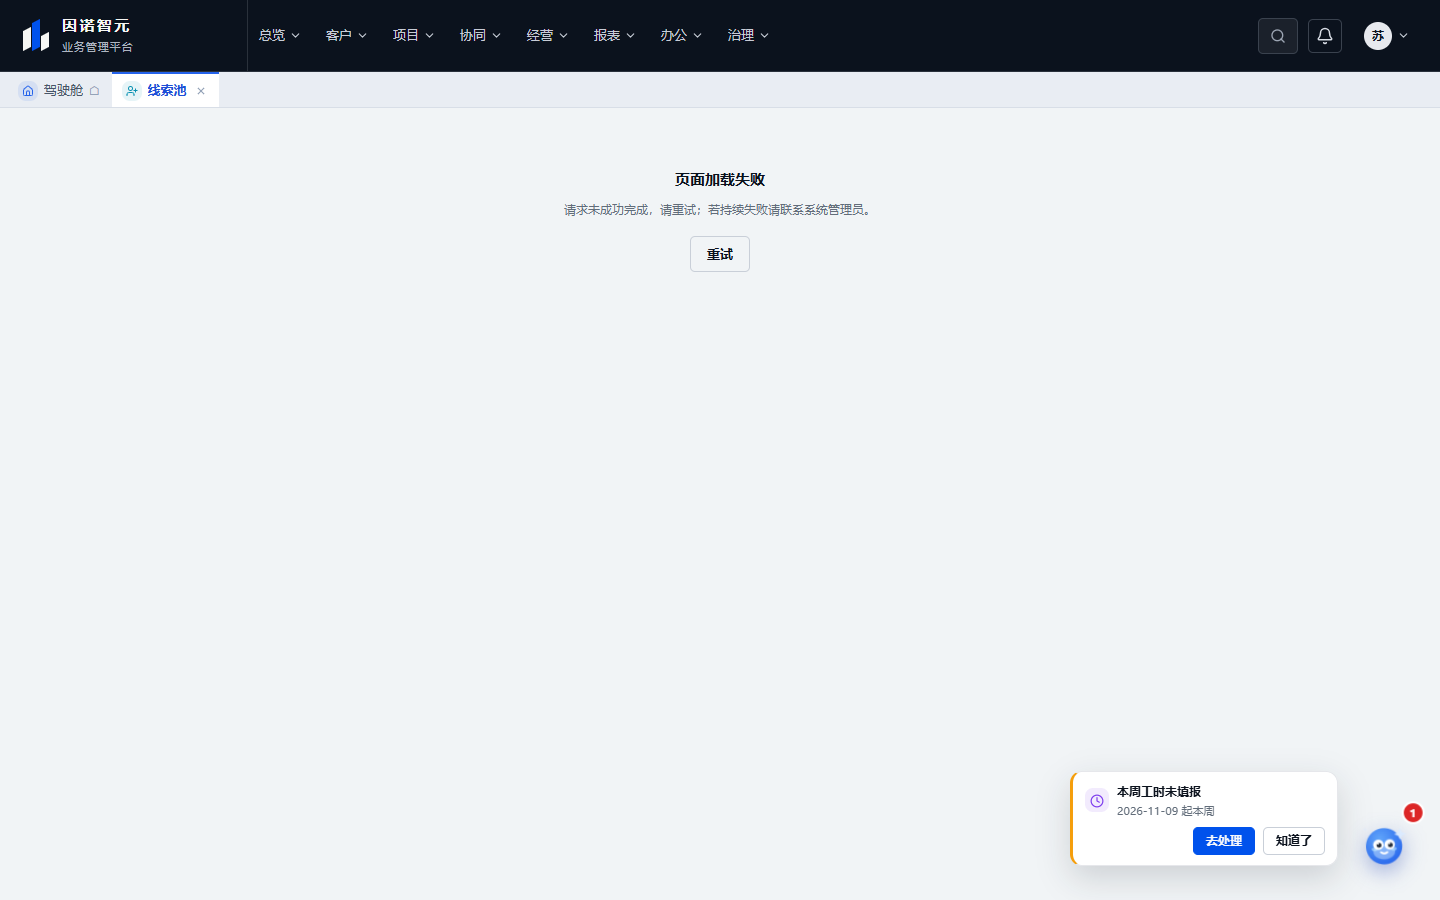
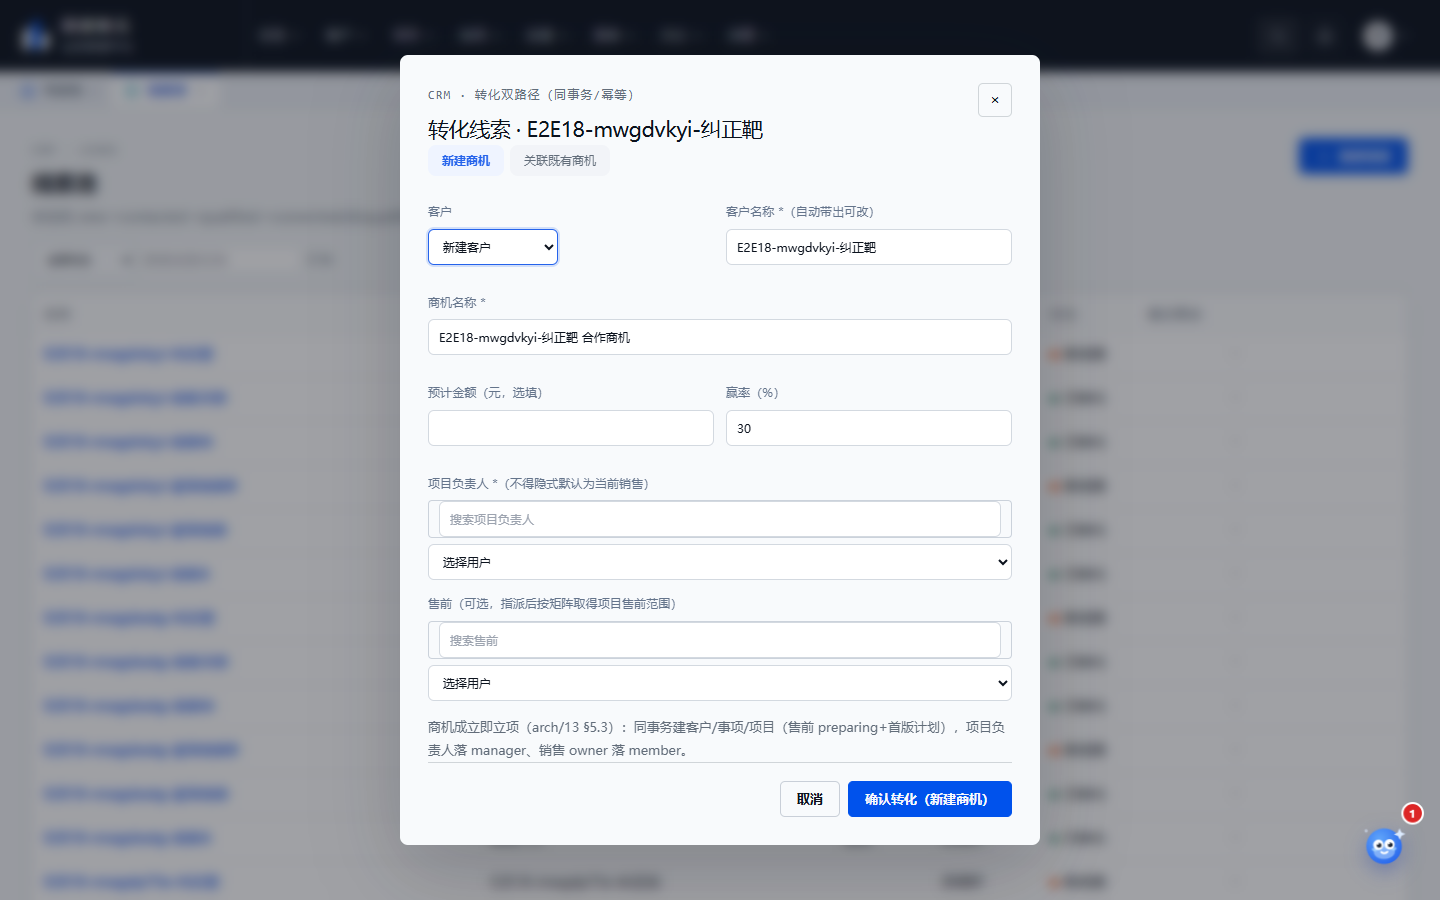
[测试] 专项手册D-MAN-3复修：重拍替换03-03转化弹窗与04-14档案页签为正常功能页——66张全量排查(canvas墨迹扫描+目视27张)同类失败页仅这两张,异常章6张错误页按规则保留——manifest采集时间已更新——D-MAN-1链接校验复跑全绿(嵌入66≥55,manifest67项双向一一对应)——新登记平台缺陷D-MAN-4(外测http非安全上下文crypto.randomUUID不可用致转化弹窗崩溃,回前端,采集侧以Chrome旗标规避不改平台代码)——STATUS转待验收

diff --git a/docs/STATUS.md b/docs/STATUS.md
@@ -5,7 +5,7 @@
 
 ## 当前迭代
 
-**专项 · 系统功能手册（超级详细版）**（**进行中（二次打回）**——图片嵌入与页签勘误已修；架构抽图发现 2 张正式插图为“页面加载失败”，需替换并全量排查同类失败页）
+**专项 · 系统功能手册（超级详细版）**（**待验收**——测试会话 2026-11-14 D-MAN-3 复修完成：03-03 转化弹窗/04-14 档案页签两张失败页已重拍为正常功能页；66 张全量排查（墨迹扫描+目视复核 27 张）仅这两张失败页；新发现平台缺陷 D-MAN-4 已登记回前端）
 
 **迭代 18 · 会议纪要业务架构对齐（一期）**（**已收口** 2026-11-14——dev+外测 prod 六组双 6/6，根 332 全绿，18-01~18-05 全部通过）
 
@@ -432,6 +432,8 @@
 | 2026-10-29 | 前端 | 迭代 6 工单 04 登记偏差（4 项）：① 财务登记收款无项目参照端点（无收款记录的新项目 UI 不可登记）② admin userList 无 roles、停用行无恢复启用 UI ③ 申请单类型配置 member/partner 不可读（前端本地静态）④ 参照端点最小字段 | **裁定**：① 新增 `receipts.projectOptions`（finance/partner 参照级 {id,code,name}）——04b 后端 + 04c 前端替换下拉源；② userList 增 roles（04b）+ 停用行加启用按钮（04c，setEnabled(false) 已验证有效）；③ 新增 `genericRequest.types` 公开读端点（04b）+ 前端移除本地静态（04c）；④ 接受现状（参照端点最小字段即契约语义），关闭 | **已关闭**（04b 后端 + 04c 前端收口完成并走查取证） |
 
 ## 交接记录（新条目置顶，格式：日期｜会话｜工单｜内容）
+
+- 2026-11-14｜测试｜专项·系统功能手册D-MAN-3复修｜**D-MAN-3 复修完成，专项重新转「待验收」。** ① **替换文件（2 张）**：`03-03-lead-convert.png`（线索转化 Stepper 完整弹窗：新建客户/关联既有商机双路径、负责人必填、售前可选、D5 同事务说明、取消/确认转化）与 `04-14-archive.png`（项目档案页签：卷宗目录 10 标准文件夹、上传并归集、档案授权区）——均重拍为正常功能页，无任何「页面加载失败/请求未成功完成」文案（已逐张目检确认）。② **全量排查（66 张）**：Playwright canvas 墨迹扫描全量分析（错误页正文墨迹率显著低于功能页——两张失败页为全库最低 0.0038/0.0065）+ 低墨候选 18 张逐张目视 + 中位段抽视 9 张 = **同类失败页仅 03-03/04-14 两张**；异常章节有意展示的错误/口径页 6 张（11-01/11-02/11-03/13-01/13-02/13-03）按规则保留；05-01/05-02/06-06/01-07 为空态/0 结果正常功能页（非错误页，不在 D-MAN-3 范围）。③ **新发现平台缺陷 D-MAN-4（已登记，回前端会话）**：外测 http://182.92.206.62:8080 为 HTTP+IP **非安全上下文**，前端 `crypto.randomUUID` 不可用（`TypeError: crypto.randomUUID is not a function`），点击线索「转化」即触发 React 渲染崩溃 → 错误边界「页面加载失败」——localhost/HTTPS 不出现（故 dev 与历次 e2e 未暴露）。影响面=前端所有 crypto.randomUUID 调用点（转化弹窗、各类幂等键弹窗）。本测试侧不改平台代码，采集以 Chrome 旗标 `--unsafely-treat-insecure-origin-as-secure` 完成重拍（仅采集侧规避，用户侧缺陷仍在）。④ **manifest 采集时间已更新**（顶层 capturedAt + 两张替换项逐条 capturedAt）。⑤ **D-MAN-1 链接完整性校验复跑全绿**：嵌入 66 ≥55 全存在、alt 空 0、backtick 残留 0、CSV 为链接、manifest 67 项↔正文双向一一对应。提请架构复验。
 
 - 2026-11-14｜架构｜专项手册二次打回｜D-MAN-1/2 已复验通过：66 张 Markdown 嵌入图片全存在、22 个复用/CSV 普通链接全存在、alt 空 0、manifest 67 项双向一致、十六→十四页签勘误生效。但抽图发现 **03-03-lead-convert.png 与 04-14-archive.png 实际为“页面加载失败”**，不能作为正式功能插图；其他抽样（驾驶舱/商机抽屉/甘特/设计器/核算/AI 配置脱敏/移动端/权限页）质量正常。已追加 D-MAN-3：重采这两张正常形态并全量排查 66 张是否含「页面加载失败/请求未成功完成」；异常章节有意展示的三类提示页除外。请测试会话仅替换图片与 manifest 时间，不动平台代码。
 
